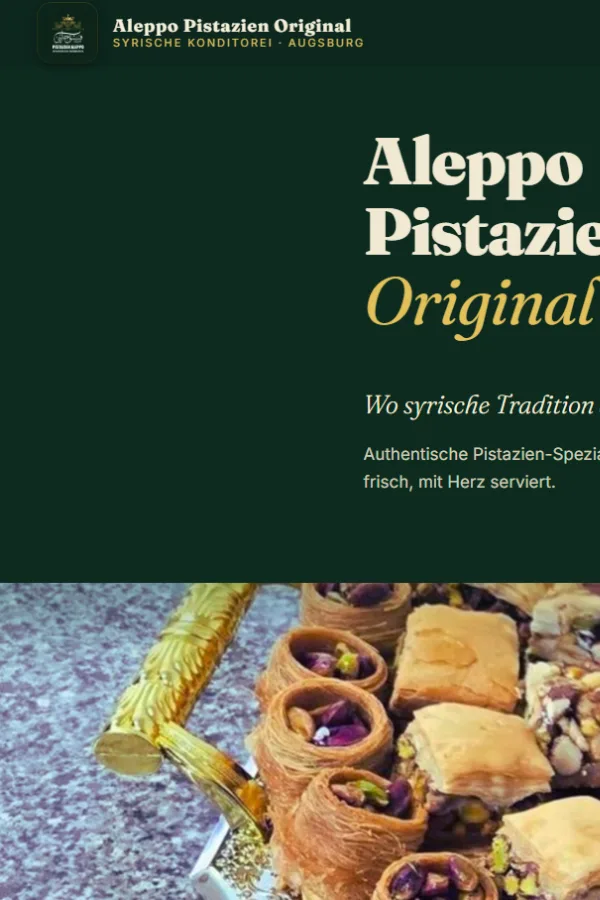
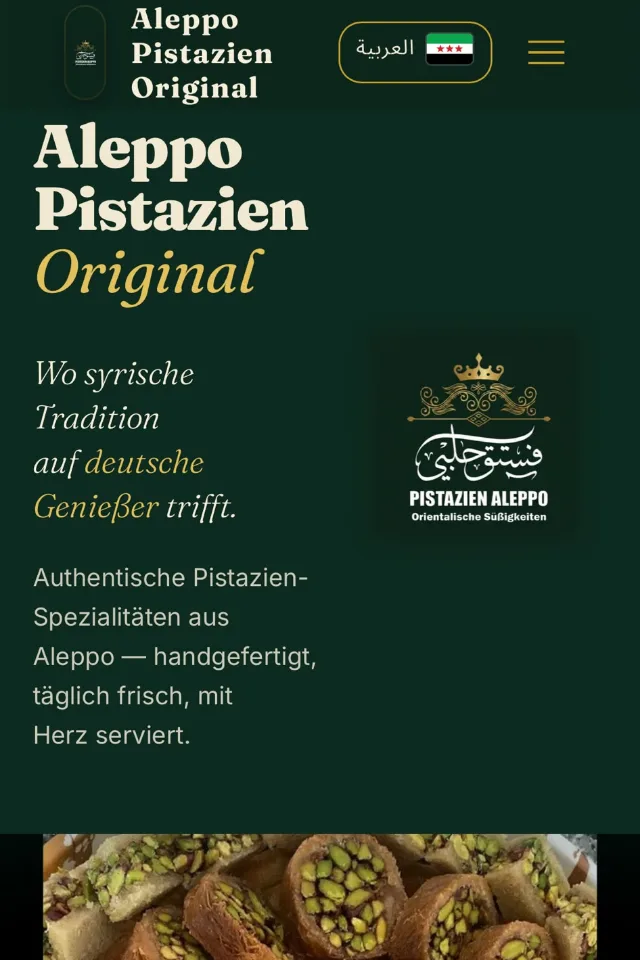
feat(projects): real portrait screenshots for Aleppo and Lilygraphy
Replaces the landscape-strip crops with the client-provided mobile
screenshots, cropped to 2:3 with the browser/OS chrome removed:
- Aleppo shows the full "Aleppo Pistazien Original" headline, brand
  mark, tagline and a strip of the baklava photo.
- Lilygraphy leads with the hand-painted flamingo-shirt hero (the
  on-brand visual) instead of the plain cream headline.
Both now fill the slot on desktop and mobile with the headline/hero
fully visible. Lilygraphy alt text updated to match; source files
tidied into img/projects/src/.

Claude-Session: https://claude.ai/code/session_01Pi5pRzF2SB8qdgbeX6Vkz6

diff --git a/data/translations.js b/data/translations.js
@@ -75,7 +75,7 @@ const translations = {
         { label: "Client Project (On Hold)", title: "Lilygraphy — Photography Portfolio",
           url: "https://lilygraphy.pages.dev/",
           thumb: "img/projects/lilygraphy-thumb.webp",
-          thumbAlt: "Lilygraphy photography portfolio design preview",
+          thumbAlt: "Lilygraphy homepage — hand-painted flamingo shirt hero",
           problem: "A photographer's portfolio has one job: get out of the way. Most template sites bury the images under effects, sliders, and branding noise.",
           action: "Client brief, art direction, then an image-first build with Sanity Studio as the content backend, so galleries and images are managed without a developer. Generous whitespace, restrained typography, fast loads — deployed to a Cloudflare Pages preview environment for review.",
           result: "The site runs on its preview URL; the domain launch is currently on hold. It stays in my portfolio deliberately — real client work includes projects that pause, and the design decisions hold up either way." },
@@ -219,7 +219,7 @@ const translations = {
         { label: "مشروع لعميل (متوقف مؤقتاً)", title: "Lilygraphy — بورتفوليو تصوير فوتوغرافي",
           url: "https://lilygraphy.pages.dev/",
           thumb: "img/projects/lilygraphy-thumb.webp",
-          thumbAlt: "معاينة تصميم بورتفوليو Lilygraphy",
+          thumbAlt: "الصفحة الرئيسية لموقع Lilygraphy — قميص فلامينغو مرسوم يدوياً",
           problem: "بورتفوليو المصوّر مهمته أن يبتعد عن الطريق — معظم القوالب الجاهزة تدفن الصور تحت المؤثرات والضجيج البصري.",
           action: "ملف متطلبات، توجيه فني، ثم بناء تتصدّره الصور مع Sanity Studio كواجهة لإدارة المحتوى — تُدار المعارض والصور من خلاله دون مطوّر. مساحات بيضاء واسعة، خطوط هادئة، تحميل سريع — نُشر على بيئة معاينة (Cloudflare Pages) للمراجعة والاعتماد.",
           result: "الموقع يعمل على رابط المعاينة؛ إطلاق النطاق متوقف مؤقتاً. يبقى في أعمالي عن قصد — العمل الحقيقي مع العملاء يتضمن مشاريع تتوقف، وقرارات التصميم صامدة في الحالتين." },
@@ -363,7 +363,7 @@ const translations = {
         { label: "Kundenprojekt (pausiert)", title: "Lilygraphy — Fotografie-Portfolio",
           url: "https://lilygraphy.pages.dev/",
           thumb: "img/projects/lilygraphy-thumb.webp",
-          thumbAlt: "Design-Vorschau des Lilygraphy-Fotografie-Portfolios",
+          thumbAlt: "Lilygraphy-Startseite — handbemaltes Flamingo-Shirt",
           problem: "Ein Fotografie-Portfolio hat genau eine Aufgabe: aus dem Weg gehen. Die meisten Template-Seiten begraben die Bilder unter Effekten, Slidern und Branding-Lärm.",
           action: "Kunden-Briefing, Art Direction, dann ein bildzentrierter Build mit Sanity Studio als Content-Backend — Galerien und Bilder lassen sich dort ohne Entwickler pflegen. Viel Weißraum, zurückhaltende Typografie, schnelle Ladezeiten; zur Abnahme auf einer Cloudflare-Pages-Preview deployed.",
           result: "Die Seite läuft auf ihrer Preview-URL; der Domain-Launch liegt derzeit auf Eis. Sie bleibt bewusst im Portfolio — echte Kundenarbeit enthält auch Projekte, die pausieren. Die Design-Entscheidungen tragen trotzdem." },

diff --git a/index.html b/index.html
@@ -314,7 +314,7 @@
             </header>
             <div class="cs-body">
               <figure class="cs-media">
-                <div class="photo"><img src="img/projects/lilygraphy-thumb.webp" alt="Lilygraphy photography portfolio design preview" data-i18n-alt="projects.items.3.thumbAlt" width="600" height="900" loading="lazy" decoding="async"></div>
+                <div class="photo"><img src="img/projects/lilygraphy-thumb.webp" alt="Lilygraphy homepage — hand-painted flamingo shirt hero" data-i18n-alt="projects.items.3.thumbAlt" width="600" height="900" loading="lazy" decoding="async"></div>
               </figure>
               <div class="cs-rows">
               <div class="cs-row"><div class="k micro" data-i18n="projects.problemLabel">Problem</div><div class="v" data-i18n="projects.items.3.problem">A photographer's portfolio has one job: get out of the way. Most template sites bury the images under effects, sliders, and branding noise.</div></div>